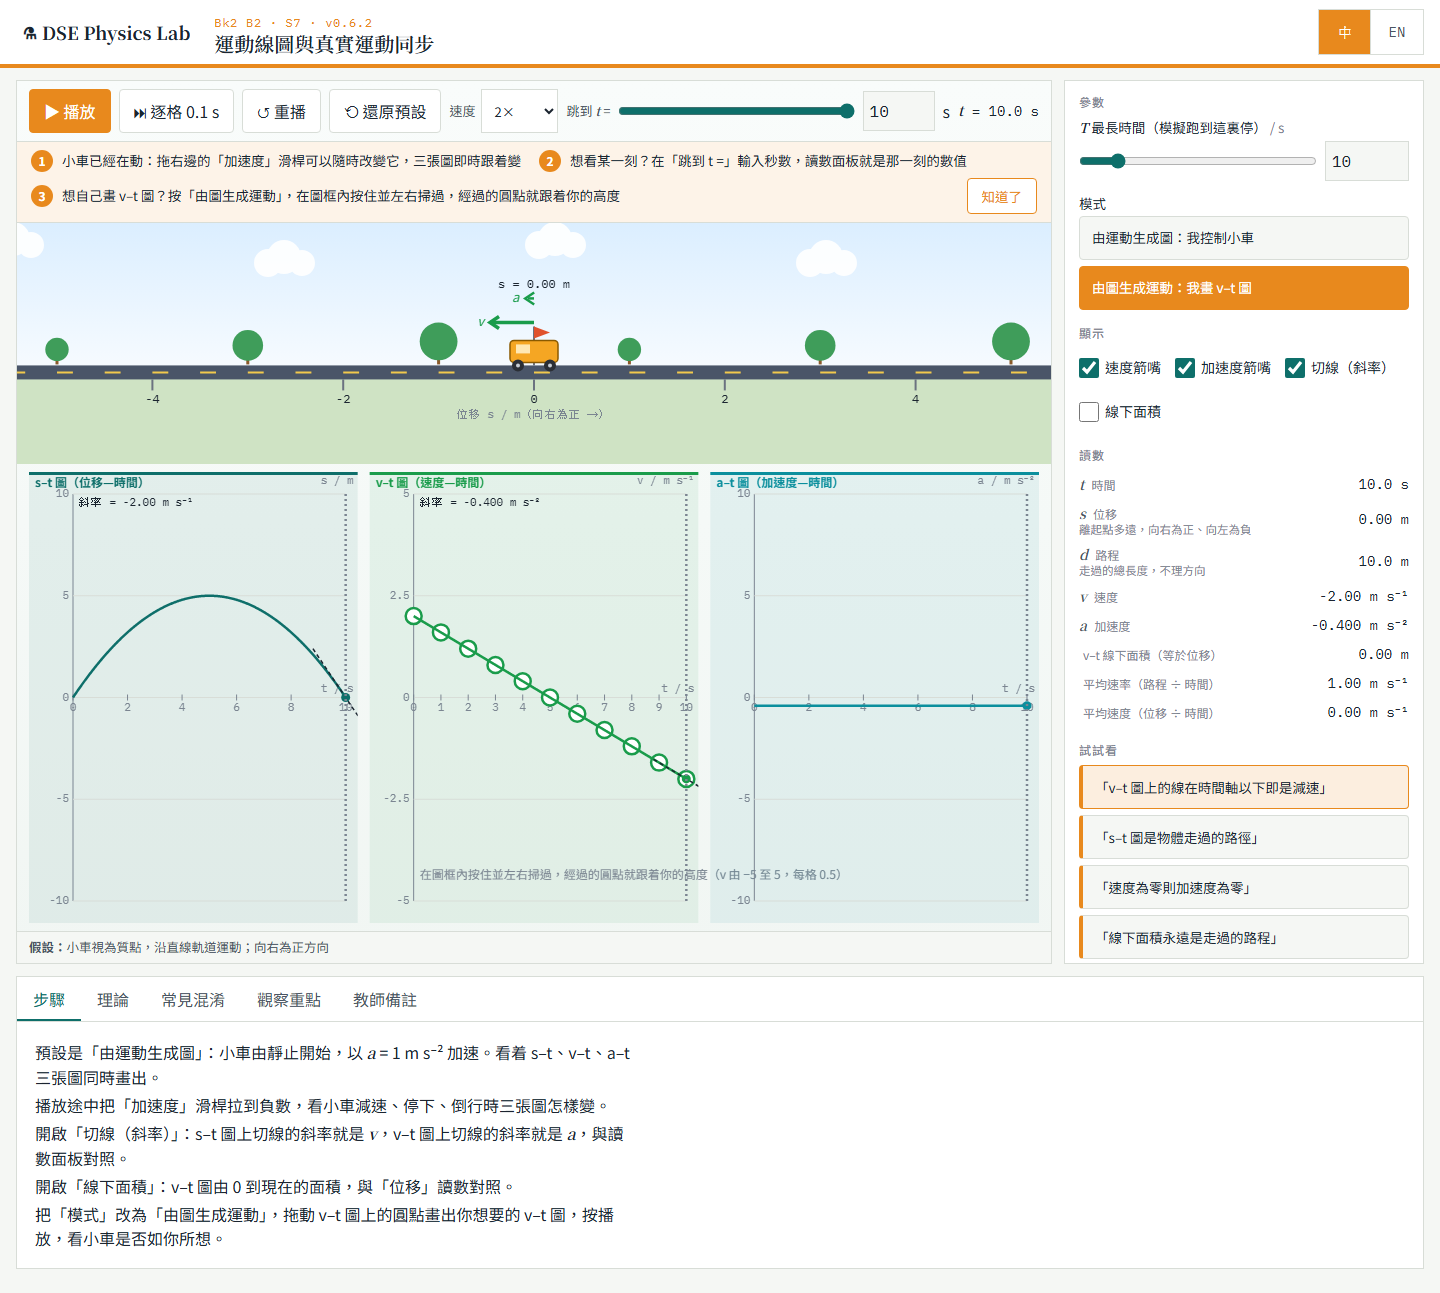
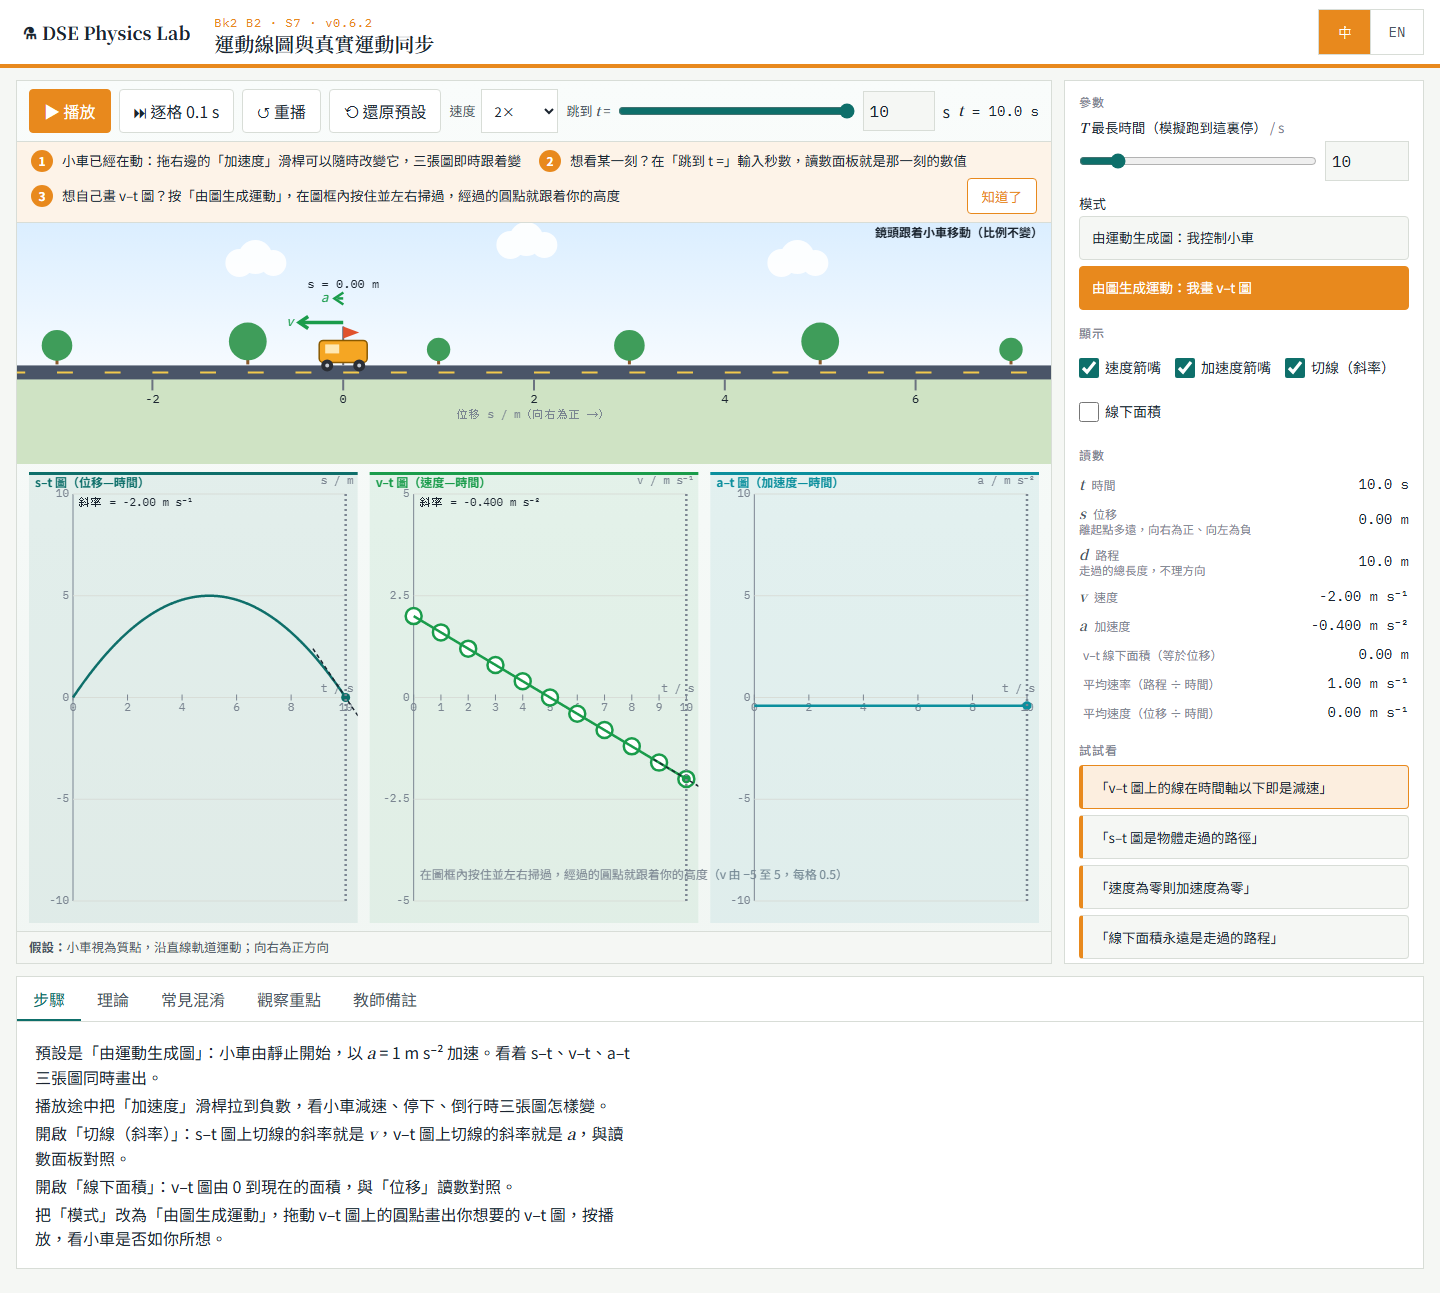
#023：小車起點放在畫面約 30% 處（老師：起點偏左一點），鏡頭提示改為離開起始位置才顯示

diff --git a/src/sims/motion-graphs-synced-with-real-motion/Scene.tsx b/src/sims/motion-graphs-synced-with-real-motion/Scene.tsx
@@ -53,7 +53,7 @@ export default function Scene({ plan, onInput }: SceneProps) {
     const viewW = frozen.current.viewW;      // 畫面橫跨的米數：重置時由參數預測定好，運行中（包括即時改 a）不變
     const pxPerM = (tr.w - 2 * pad) / viewW;
     const body = plan.bodies?.[0]; const carS = body?.position[0] ?? 0;
-    if (m.t < cam.current.t - 1e-9 || m.t === 0) cam.current.s = 0;   // 重置：鏡頭回到起點
+    if (m.t < cam.current.t - 1e-9 || m.t === 0) cam.current.s = viewW * 0.2;   // 重置：起點放在畫面約 30% 處（老師 2026-09-11：起點偏左一點，向右行有較多路）
     { const dz = viewW * 0.2; if (carS > cam.current.s + dz) cam.current.s = carS - dz; else if (carS < cam.current.s - dz) cam.current.s = carS + dz; }
     cam.current.t = m.t;
     const sx = (s: number) => tr.x + tr.w / 2 + (s - cam.current.s) * pxPerM;
@@ -87,7 +87,7 @@ export default function Scene({ plan, onInput }: SceneProps) {
     }
     ctx.font = monoFont(11); ctx.fillStyle = ink3; ctx.textAlign = "center"; ctx.fillText(zh ? "位移 s / m（向右為正 →）" : "displacement s / m (right = + →)", tr.x + tr.w / 2, ty + 46);
     // 鏡頭偏離起點時說明「鏡頭跟着小車移動，比例不變」（學生試用者第 7 輪：地面刻度範圍變了，以為是縮放）
-    if (Math.abs(cam.current.s) > 1e-9) { ctx.font = uiFont(12, "700"); ctx.fillStyle = ink; ctx.textAlign = "right"; ctx.fillText(zh ? "鏡頭跟着小車移動（比例不變）" : "Camera follows the trolley (same scale)", tr.x + tr.w - 8, tr.y + 14); }
+    if (Math.abs(cam.current.s - viewW * 0.2) > 1e-9) {   // 鏡頭離開了起始位置才提示 ctx.font = uiFont(12, "700"); ctx.fillStyle = ink; ctx.textAlign = "right"; ctx.fillText(zh ? "鏡頭跟着小車移動（比例不變）" : "Camera follows the trolley (same scale)", tr.x + tr.w - 8, tr.y + 14); }
     // 起點旗（原點，在畫面內才畫）
     const x0 = sx(0);
     if (x0 > tr.x - 20 && x0 < tr.x + tr.w + 20) {
